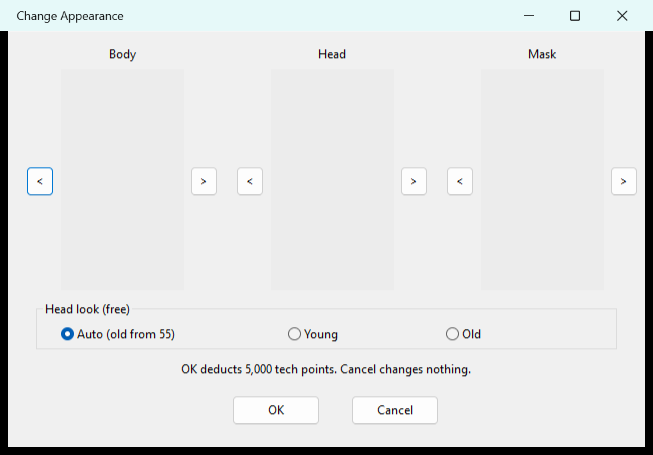
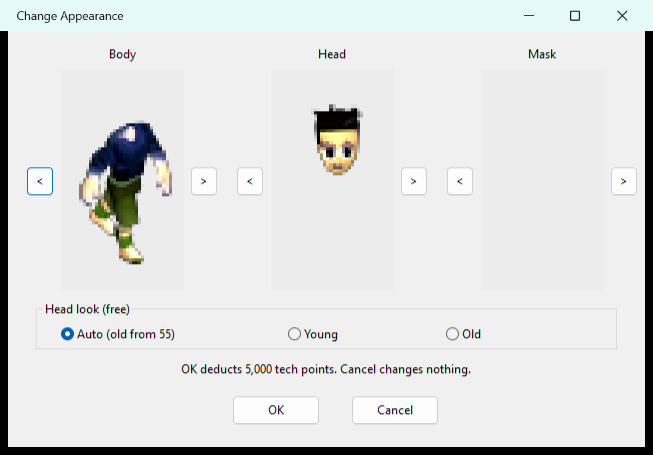
Head look: pictures with the real art; test fixes; transparency log regenerated
- scripts/render_change_appearance.py draws A New Home's vertical 40 x 1300 strips (":v") and
  another DLL's resources ("@dll"), and can check a chosen radio (--check). The empty Body and
  Head previews in the earlier VV1/VV2/VV3 pictures were the render tool's (no art was passed),
  not the pickers': re-rendered with the DLLs' own preview strips, plus a VV1 picture with Old
  chosen (Grey Hair's grey strip).
- VVFP Head Look.dll: the never-failing stub-count check is a compile-time check now and the
  unread g_site_count is gone; re-pinned.
- How to Use: the Villager Upgrades lines fit the guides' 180-character limit.
- tests/test_vv3_mask_slot_persistence.py reads 0x600 bytes of the chooser (it grew with the look).
- docs/transparency-log.md regenerated from the generator, last.

Changed region(s): [[0.1225, 0.2462, 0.2757, 0.5846], [0.4594, 0.2154, 0.5513, 0.4]]

diff --git a/scripts/render_change_appearance.py b/scripts/render_change_appearance.py
@@ -1,13 +1,16 @@
 """Render a companion DLL's dialog template to a PNG, as Windows draws it: the Change Appearance pictures in
 docs/ (the head look row, the owner, 2026-10-28).
 
-    python scripts/render_change_appearance.py <dll> <dialog id> <out.png> [<control>=<bitmap>:<cell> ...]
+    python scripts/render_change_appearance.py <dll> <dialog id> <out.png> [<control>=<bitmap>:<cell>[:v][@<dll>] ...]
+        [--check <control> ...]
 
 The DLL is loaded as a resource file only (none of its code runs).  The dialog is created by Windows from
 its own template, off screen, and printed with PrintWindow; each owner-drawn preview named on the command
-line is filled with that cell (40 x 65) of that BITMAP resource of the DLL, scaled to fit as the companions
-draw it, and every other owner-drawn control is left blank.  The first radio button of each group is
-checked, as the windows open for a villager whose look is Auto.  Windows only.
+line is filled with that cell (40 x 65) of that BITMAP resource -- of the DLL, or of the one after "@" -- scaled
+to fit as the companions draw it: cells side by side, or one under another with ":v" (A New Home's 40 x 1300
+strips and Grey Hair's grey ones).  Every other owner-drawn control is left blank.  The first radio button of
+each group is checked, as the windows open for a villager whose look is Auto, unless --check names others.
+Windows only.
 """
 from __future__ import annotations
 
@@ -19,7 +22,8 @@ from pathlib import Path
 CELL_W, CELL_H = 40, 65
 
 
-def render(dll: Path, dialog: int, out: Path, previews: dict[int, tuple[int, int]]) -> tuple[int, int]:
+def render(dll: Path, dialog: int, out: Path, previews: dict[int, tuple[int, int, bool, Path | None]],
+           checked: tuple[int, ...] = ()) -> tuple[int, int]:
     from PIL import Image
 
     user32 = ctypes.WinDLL("user32", use_last_error=True)
@@ -30,6 +34,12 @@ def render(dll: Path, dialog: int, out: Path, previews: dict[int, tuple[int, int
     module = kernel32.LoadLibraryExW(str(dll), None, 0x2 | 0x20)   # LOAD_LIBRARY_AS_DATAFILE | AS_IMAGE_RESOURCE
     if not module:
         raise OSError(f"cannot load {dll} as a resource file")
+    extra = {}
+    for _, _, _, other in previews.values():
+        if other is not None and other not in extra:
+            extra[other] = kernel32.LoadLibraryExW(str(other), None, 0x2 | 0x20)
+            if not extra[other]:
+                raise OSError(f"cannot load {other} as a resource file")
 
     DLGPROC = ctypes.WINFUNCTYPE(ctypes.c_ssize_t, wintypes.HWND, wintypes.UINT, wintypes.WPARAM, wintypes.LPARAM)
 
@@ -64,6 +74,7 @@ def render(dll: Path, dialog: int, out: Path, previews: dict[int, tuple[int, int
     user32.GetWindow.argtypes = [wintypes.HWND, wintypes.UINT]
     user32.GetWindowLongW.argtypes = [wintypes.HWND, ctypes.c_int]
     user32.GetClassNameW.argtypes = [wintypes.HWND, wintypes.LPWSTR, ctypes.c_int]
+    user32.GetDlgCtrlID.argtypes = [wintypes.HWND]
     user32.SendMessageW.argtypes = [wintypes.HWND, wintypes.UINT, wintypes.WPARAM, wintypes.LPARAM]
     user32.GetWindowRect.argtypes = [wintypes.HWND, ctypes.POINTER(wintypes.RECT)]
     user32.SetWindowPos.argtypes = [wintypes.HWND, wintypes.HWND] + [ctypes.c_int] * 4 + [wintypes.UINT]
@@ -78,8 +89,9 @@ def render(dll: Path, dialog: int, out: Path, previews: dict[int, tuple[int, int
         gdi32.DeleteObject(brush)
         if item.CtlID not in previews:
             return
-        bitmap_id, cell = previews[item.CtlID]
-        bitmap = user32.LoadImageW(module, ctypes.c_void_p(bitmap_id), 0, 0, 0, 0)   # IMAGE_BITMAP
+        bitmap_id, cell, vertical, other = previews[item.CtlID]
+        source_module = extra[other] if other is not None else module
+        bitmap = user32.LoadImageW(source_module, ctypes.c_void_p(bitmap_id), 0, 0, 0, 0)   # IMAGE_BITMAP
         if not bitmap:
             return
         source = gdi32.CreateCompatibleDC(item.hDC)
@@ -89,7 +101,8 @@ def render(dll: Path, dialog: int, out: Path, previews: dict[int, tuple[int, int
         w, h = int(CELL_W * scale), int(CELL_H * scale)
         gdi32.SetStretchBltMode(item.hDC, 3)                   # COLORONCOLOR
         gdi32.StretchBlt(item.hDC, rc.left + (width - w) // 2, rc.top + (height - h) // 2, w, h,
-                         source, cell * CELL_W, 0, CELL_W, CELL_H, 0x00CC0020)  # SRCCOPY
+                         source, 0 if vertical else cell * CELL_W, cell * CELL_H if vertical else 0, CELL_W, CELL_H,
+                         0x00CC0020)  # SRCCOPY
         gdi32.SelectObject(source, previous)
         gdi32.DeleteDC(source)
         gdi32.DeleteObject(bitmap)
@@ -101,7 +114,9 @@ def render(dll: Path, dialog: int, out: Path, previews: dict[int, tuple[int, int
                 style = user32.GetWindowLongW(child, -16)
                 name = ctypes.create_unicode_buffer(32)
                 user32.GetClassNameW(child, name, 32)
-                if name.value.lower() == "button" and style & 0xF == 9 and style & 0x00020000:   # first of a group
+                is_radio = name.value.lower() == "button" and style & 0xF == 9
+                wanted = user32.GetDlgCtrlID(child) in checked if checked else style & 0x00020000   # first of a group
+                if is_radio and wanted:
                     user32.SendMessageW(child, 0x00F1, 1, 0)   # BM_SETCHECK
                 child = user32.GetWindow(child, 2)             # GW_HWNDNEXT
             return 1
@@ -150,6 +165,8 @@ def render(dll: Path, dialog: int, out: Path, previews: dict[int, tuple[int, int
     finally:
         user32.DestroyWindow(window)
         kernel32.FreeLibrary(module)
+        for handle in extra.values():
+            kernel32.FreeLibrary(handle)
 
 
 def main(argv: list[str]) -> int:
@@ -157,11 +174,18 @@ def main(argv: list[str]) -> int:
         print(__doc__)
         return 2
     previews = {}
-    for spec in argv[3:]:
+    checked = []
+    specs = argv[3:]
+    while specs:
+        spec = specs.pop(0)
+        if spec == "--check":
+            checked.append(int(specs.pop(0)))
+            continue
         control, rest = spec.split("=")
-        bitmap, cell = rest.split(":")
-        previews[int(control)] = (int(bitmap), int(cell))
-    size = render(Path(argv[0]), int(argv[1]), Path(argv[2]), previews)
+        rest, _, other = rest.partition("@")
+        parts = rest.split(":")
+        previews[int(control)] = (int(parts[0]), int(parts[1]), parts[2:] == ["v"], Path(other) if other else None)
+    size = render(Path(argv[0]), int(argv[1]), Path(argv[2]), previews, tuple(checked))
     print(f"wrote {argv[2]} ({size[0]} x {size[1]})")
     return 0
 

diff --git a/native/vvfp_head_look/vvfp_head_look.c b/native/vvfp_head_look/vvfp_head_look.c
@@ -241,7 +241,6 @@ static const hl_site VV2_SITES[] = {
 };
 
 static const hl_site *g_sites;
-static int g_site_count;
 
 /* The age the compare at site `n` makes, for the registers in `frame`: [0..7] pushad (edi, esi, ebp, esp,
    ebx, edx, ecx, eax).  The villager's look decides it; anything that is not plainly a villager record of
@@ -292,17 +291,20 @@ static void (*const HL_STUBS[])(void) = {
     hl_stub_19,
 };
 
+/* Every game's sites have a stub each (checked when this compiles). */
+typedef char hl_enough_stubs[(sizeof VV2_SITES / sizeof VV2_SITES[0] <= sizeof HL_STUBS / sizeof HL_STUBS[0]
+                              && sizeof VV3_SITES / sizeof VV3_SITES[0] <= sizeof HL_STUBS / sizeof HL_STUBS[0]
+                              && sizeof VV4_SITES / sizeof VV4_SITES[0] <= sizeof HL_STUBS / sizeof HL_STUBS[0]
+                              && sizeof VV5_SITES / sizeof VV5_SITES[0] <= sizeof HL_STUBS / sizeof HL_STUBS[0])
+                             ? 1 : -1];
+
 static void hl_install(const hl_site *sites, int count) {
     vvfp_site_write w[sizeof HL_STUBS / sizeof HL_STUBS[0]];
     int i;
-    if (count > (int)(sizeof HL_STUBS / sizeof HL_STUBS[0])) {
-        return;
-    }
     for (i = 0; i < count; ++i) {
         vvfp_site_branch(&w[i], sites[i].va, sites[i].length, sites[i].stock, 0xE9, (const void *)HL_STUBS[i]);
     }
     g_sites = sites;
-    g_site_count = count;
     g_installed = vvfp_install_sites(w, count);
 }
 

diff --git a/tests/test_vv3_mask_slot_persistence.py b/tests/test_vv3_mask_slot_persistence.py
@@ -458,7 +458,8 @@ class VV3MaskSlotPersistenceTests(unittest.TestCase):
         chooser_va = pe.OPTIONAL_HEADER.ImageBase + exports["ShowVV3AppearanceChooser"]
         setter_va = pe.OPTIONAL_HEADER.ImageBase + exports["VV3_SetMaskForRecord"]
         chooser_raw = pe.get_offset_from_rva(exports["ShowVV3AppearanceChooser"])
-        code = pe.__data__[chooser_raw : chooser_raw + 0x200]
+        # 0x600: the chooser grew when it learned the head look (native/shared/head_look.h).
+        code = pe.__data__[chooser_raw : chooser_raw + 0x600]
         instructions = list(Cs(CS_ARCH_X86, CS_MODE_32).disasm(code, chooser_va))
 
         # The compiler routes both the exported setter and the chooser through

diff --git a/src/vv_fun_patcher.py b/src/vv_fun_patcher.py
@@ -902,7 +902,7 @@ VV5_TASK9_PATHS = {
 # villager's own colour flags. The believer draw at 0x47279C is stock again,
 # and the flip is closed at both render-function epilogues.
 VV5_TASK9_SOURCE_TEXT_SHA256 = {
[3 lines of base64/hex data omitted]
 }
[1 lines of base64/hex data omitted]

diff --git a/docs/transparency-log.md b/docs/transparency-log.md
@@ -263,7 +263,7 @@ Gives A New Home the grey hair of the later games. In the original game a villag
 
 **Requires no other patch to be ticked.**
 
-- Behavior changes: Every draw of a villager's head from male_heads.png or female_heads.png -- the 29 reads of gameobj+0x3DFF8 / +0x3DFF4 in the Details portrait 0x437340, a dialog's villager figure 0x4375F0, the village 0x437790 and the map 0x4388E0 -- uses Images\vvfp_grey_male_heads.png or Images\vvfp_grey_female_heads.png instead (same column, same row) when the villager's shown age (record +0x348) is 1,100 age units (55 years) or more, the age the later games switch to their old heads (VV2 0x4469BA, VV3 0x46086D, VV4 0x467E89, VV5 0x4722A2). Head 19 follows the same rule as every other head (the owner, 2026-10-28): the Golden Child never reaches 1,100 (the age tick puts family 199 back to 100 units, 0x42EB80..0x42EB8E), but any other villager given head 19 is drawn from row 19 of the grey sheet once 1,100 or older. The Origins Change Appearance picker previews a villager's head from this companion's grey strip when the village draws that villager grey (Vv1GreyHairWanted).
+- Behavior changes: Every draw of a villager's head from male_heads.png or female_heads.png -- the 29 reads of gameobj+0x3DFF8 / +0x3DFF4 in the Details portrait 0x437340, a dialog's villager figure 0x4375F0, the village 0x437790 and the map 0x4388E0 -- uses Images\vvfp_grey_male_heads.png or Images\vvfp_grey_female_heads.png instead (same column, same row) when the villager's shown age (record +0x348) is 1,100 age units (55 years) or more, the age the later games switch to their old heads (VV2 0x4469BA, VV3 0x46086D, VV4 0x467E89, VV5 0x4722A2). Head 19 follows the same rule as every other head (the owner, 2026-10-28): the Golden Child never reaches 1,100 (the age tick puts family 199 back to 100 units, 0x42EB80..0x42EB8E), but any other villager given head 19 is drawn from row 19 of the grey sheet once 1,100 or older. The Origins Change Appearance picker previews a villager's head from this companion's grey strip when the village draws that villager grey (Vv1GreyHairWanted). Change Appearance's head look ("VVFP Head Look.dll", shipped by the Origins row): each draw asks it for the villager's look -- Auto keeps the 1,100 rule, Young is never drawn grey and Old is drawn grey at any age; the picker offers the look only when this companion is installed and previews it with Vv1GreyHairUsable.
 - Explicit non-changes/exclusions: This row changes no executable bytes: the DLL verifies the 29 reads, the two engine entries and the four routines' register set-ups, and writes its 31 detours at run time through the shared all-or-none writer; a different build installs nothing. The head value (record +0x360) and every other record field are never written: logs, the Family Tree, genetics and Change Appearance read the same head number as before. The game's own male_heads.png and female_heads.png are not changed; the grey sheets are new files. A missing grey sheet, or one that is not exactly 280 x 1300 pixels, is never used. The draws themselves are the game's own: the same sprite cell, position, scale and facing; the Origins masks still find the head draw by its young sheet and are drawn as before. Show Parents' small parent figures on the Details screen (drawn by VVFP VV1 Parentage.dll from the parents' stored heads, which carry no age) and the Family Tree Maker keep the young heads.
 - Dependencies: none
 - Evidence status: static source/manifest verification performed; runtime/player confirmation pending
